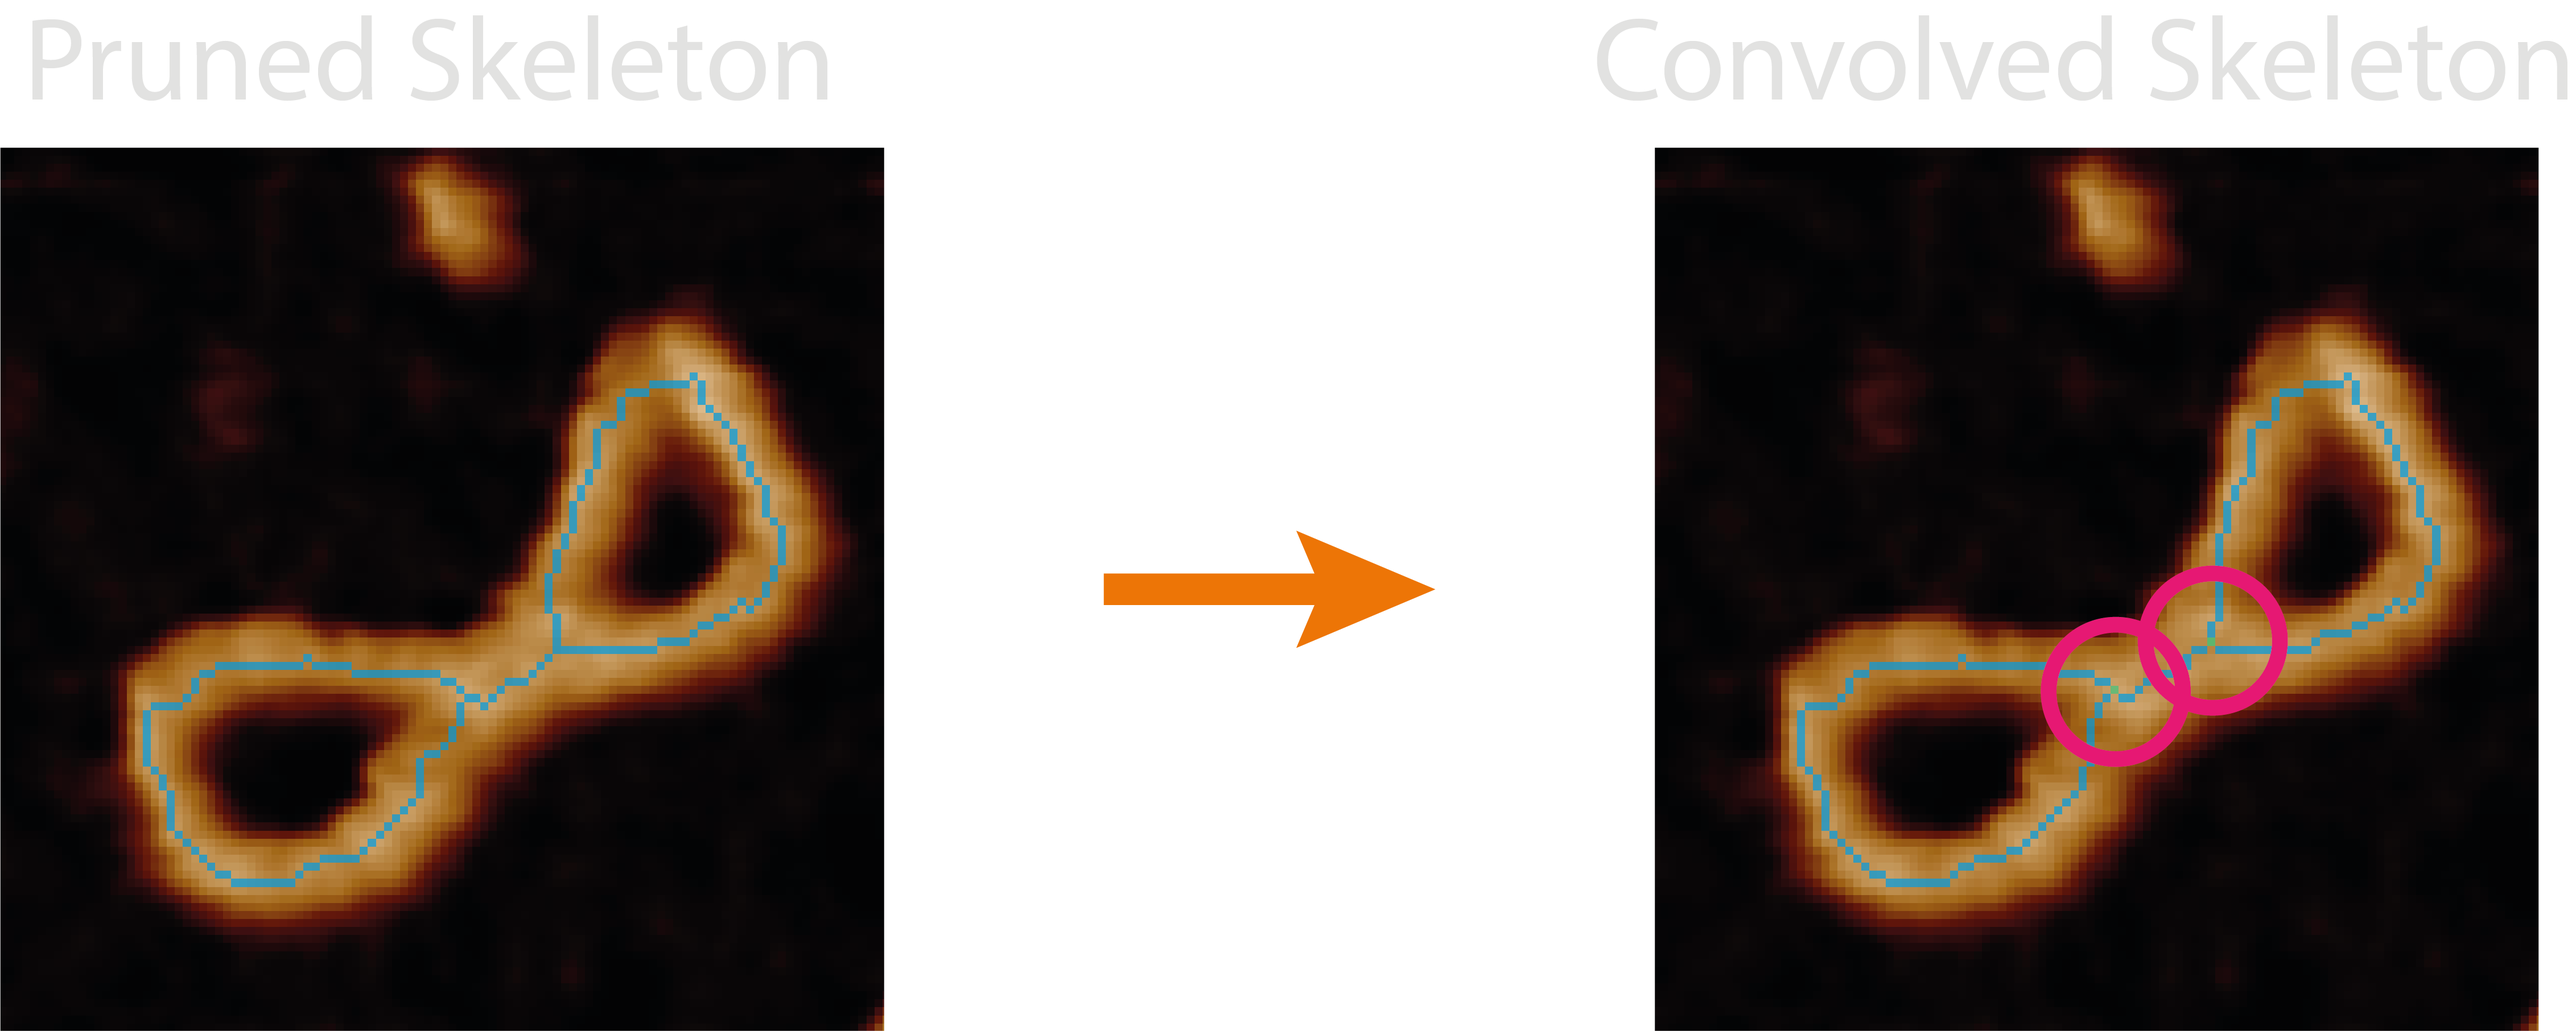
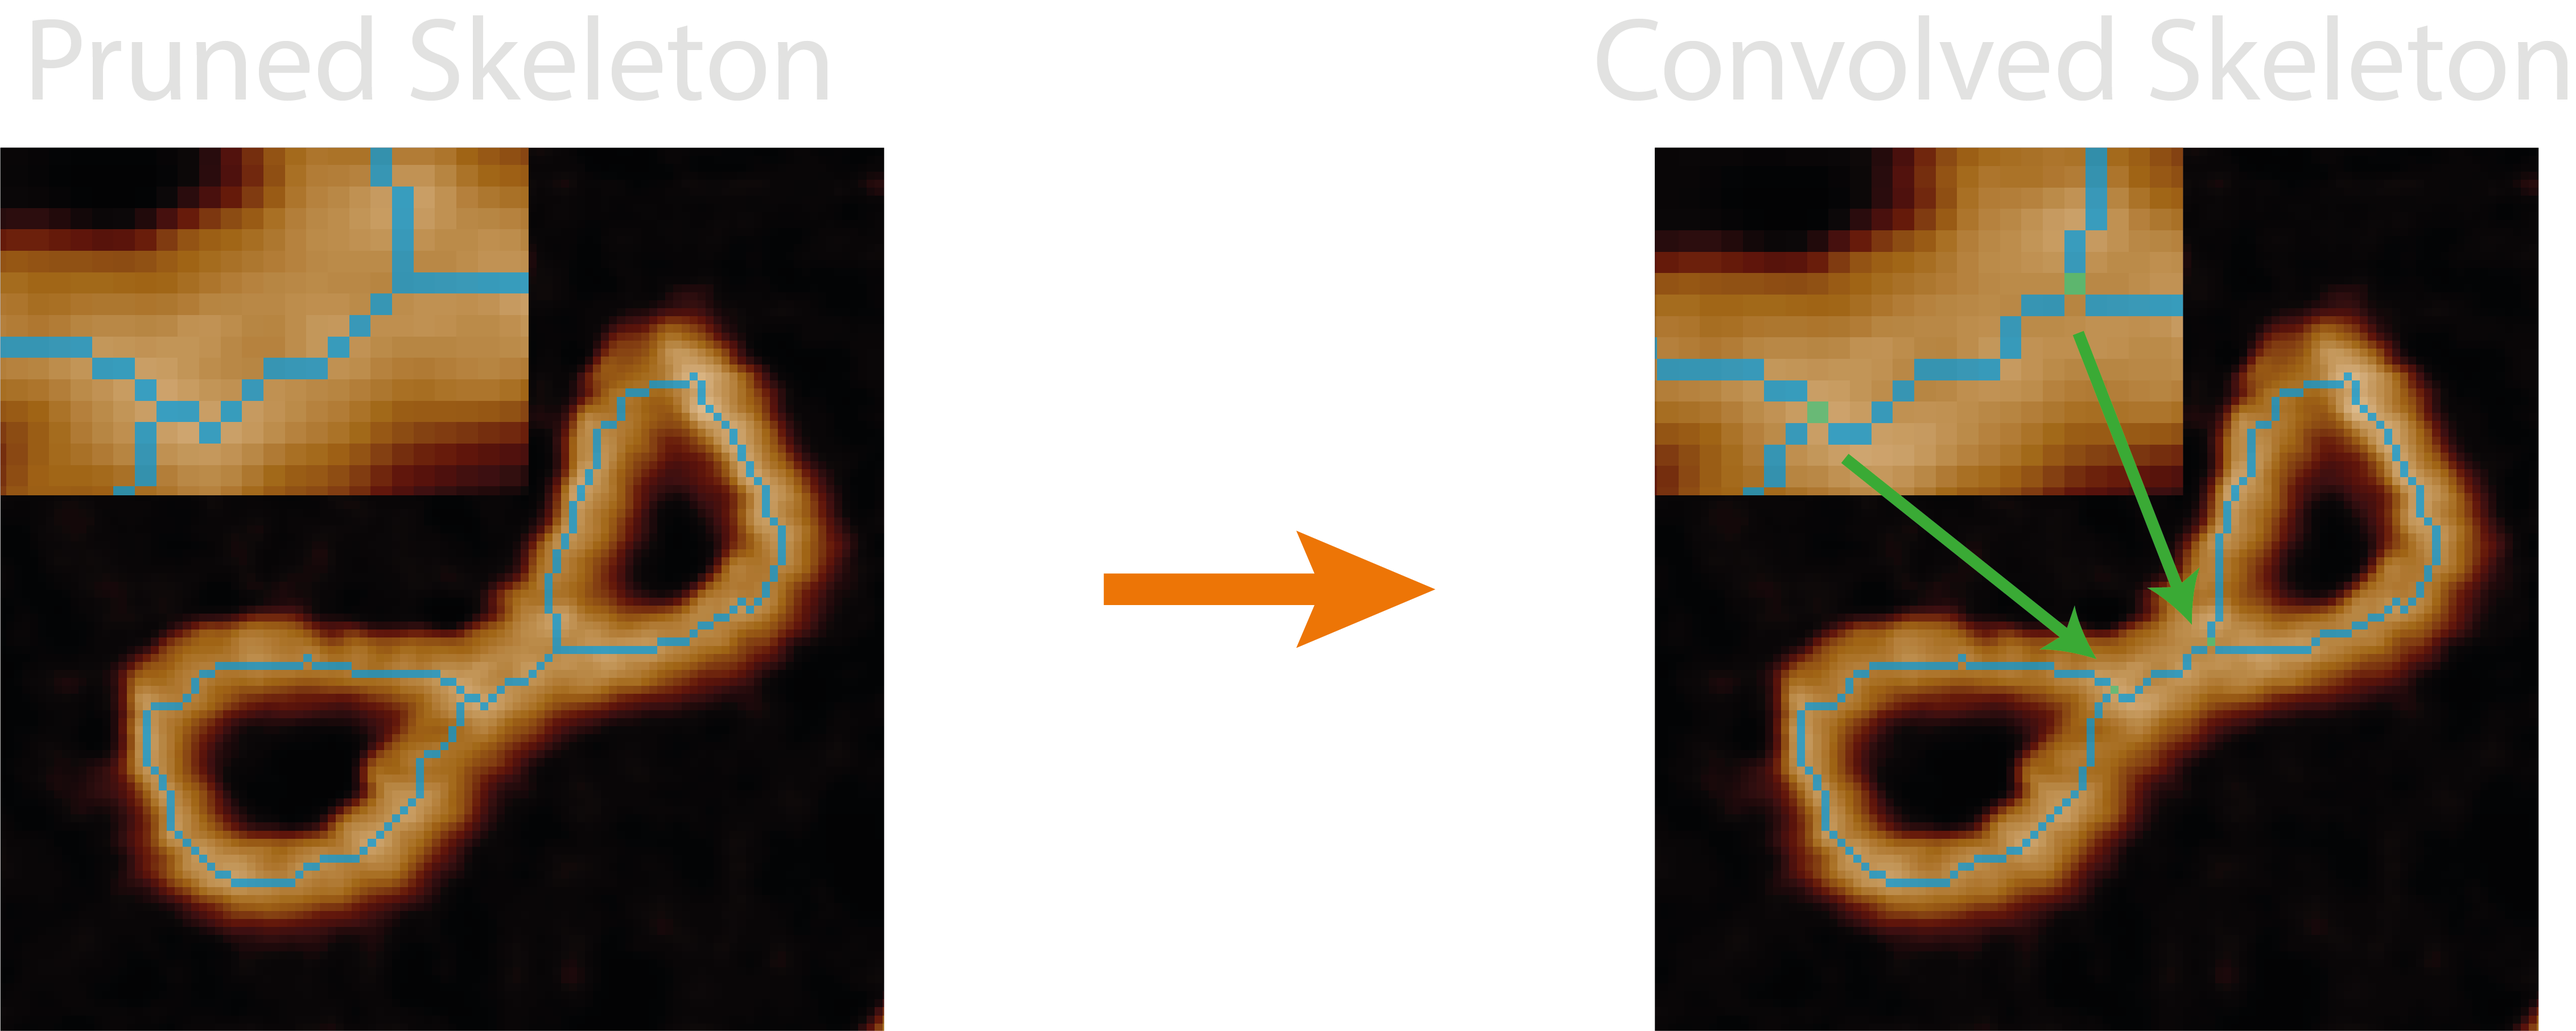
addresses image to big to see skels and mention nodes earlier feedback

Changed region(s): [[0.6229, 0.1236, 0.9032, 0.7413], [0.0, 0.1236, 0.218, 0.4942]]

diff --git a/docs/advanced/nodestats.md b/docs/advanced/nodestats.md
@@ -6,7 +6,8 @@ module.
 ## At a Glance : Crossing Analyses
 
 The `nodestats.py` module handles all the functions associated with
-identifying and analysing the crossing branches in pruned skeletons.
+identifying and analysing the crossing regions (nodes) and crossing branches
+in pruned skeletons.
 
 The quality of the resultant metrics and over/underlying branch classifications
 depend on the quality of the pruned skeleton, the effectiveness of automating
